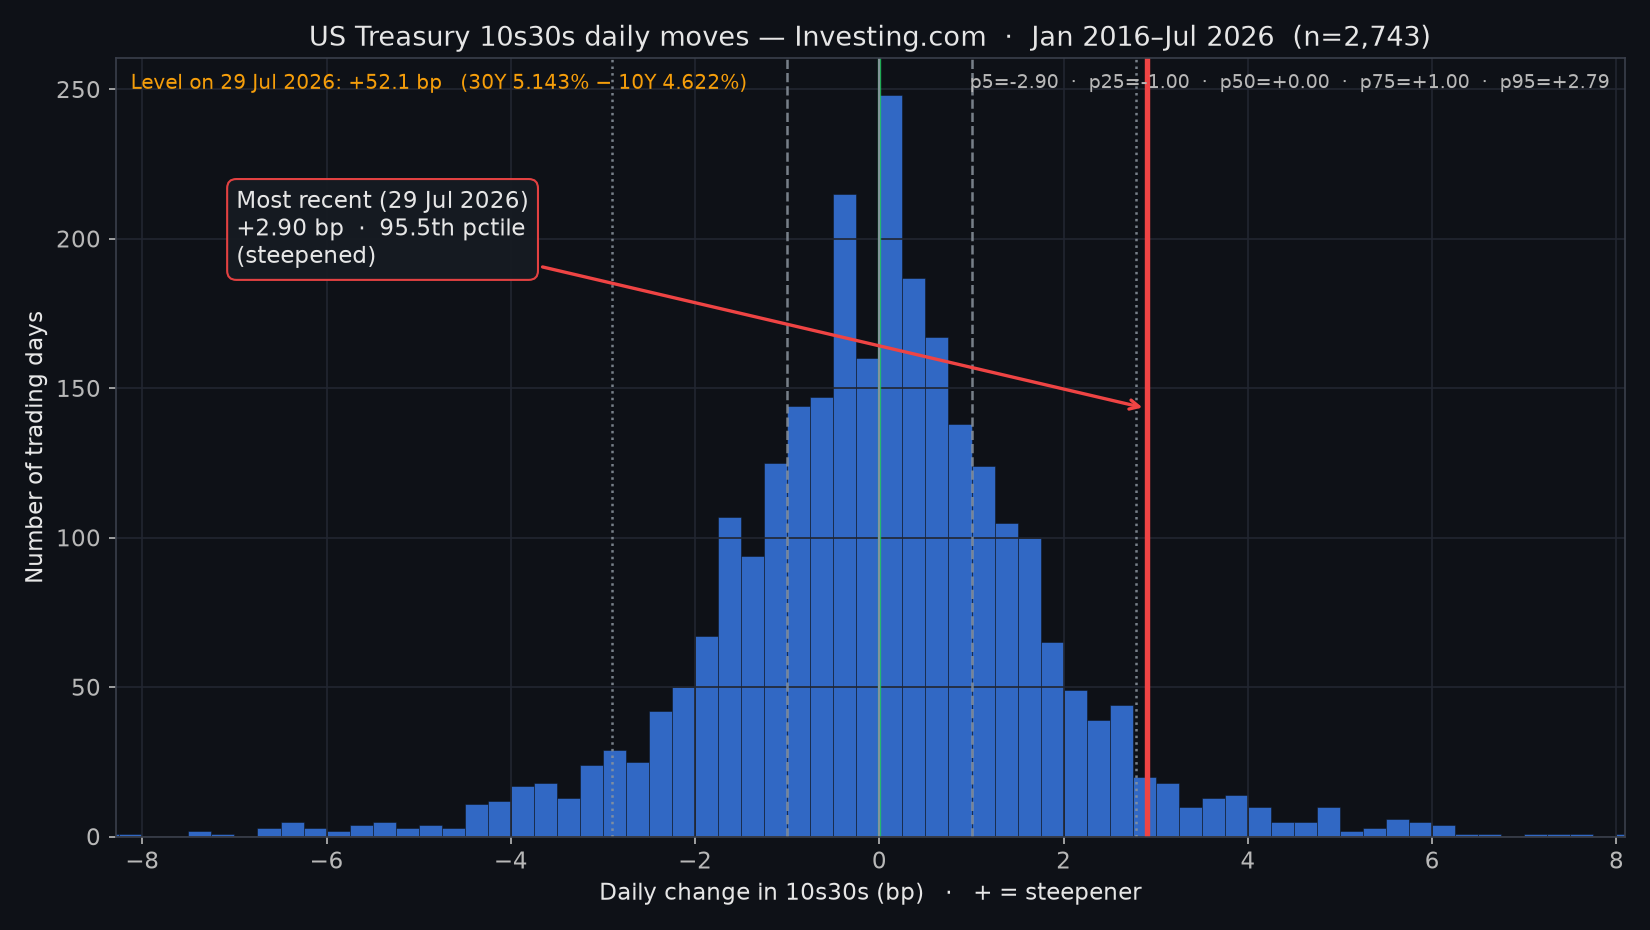
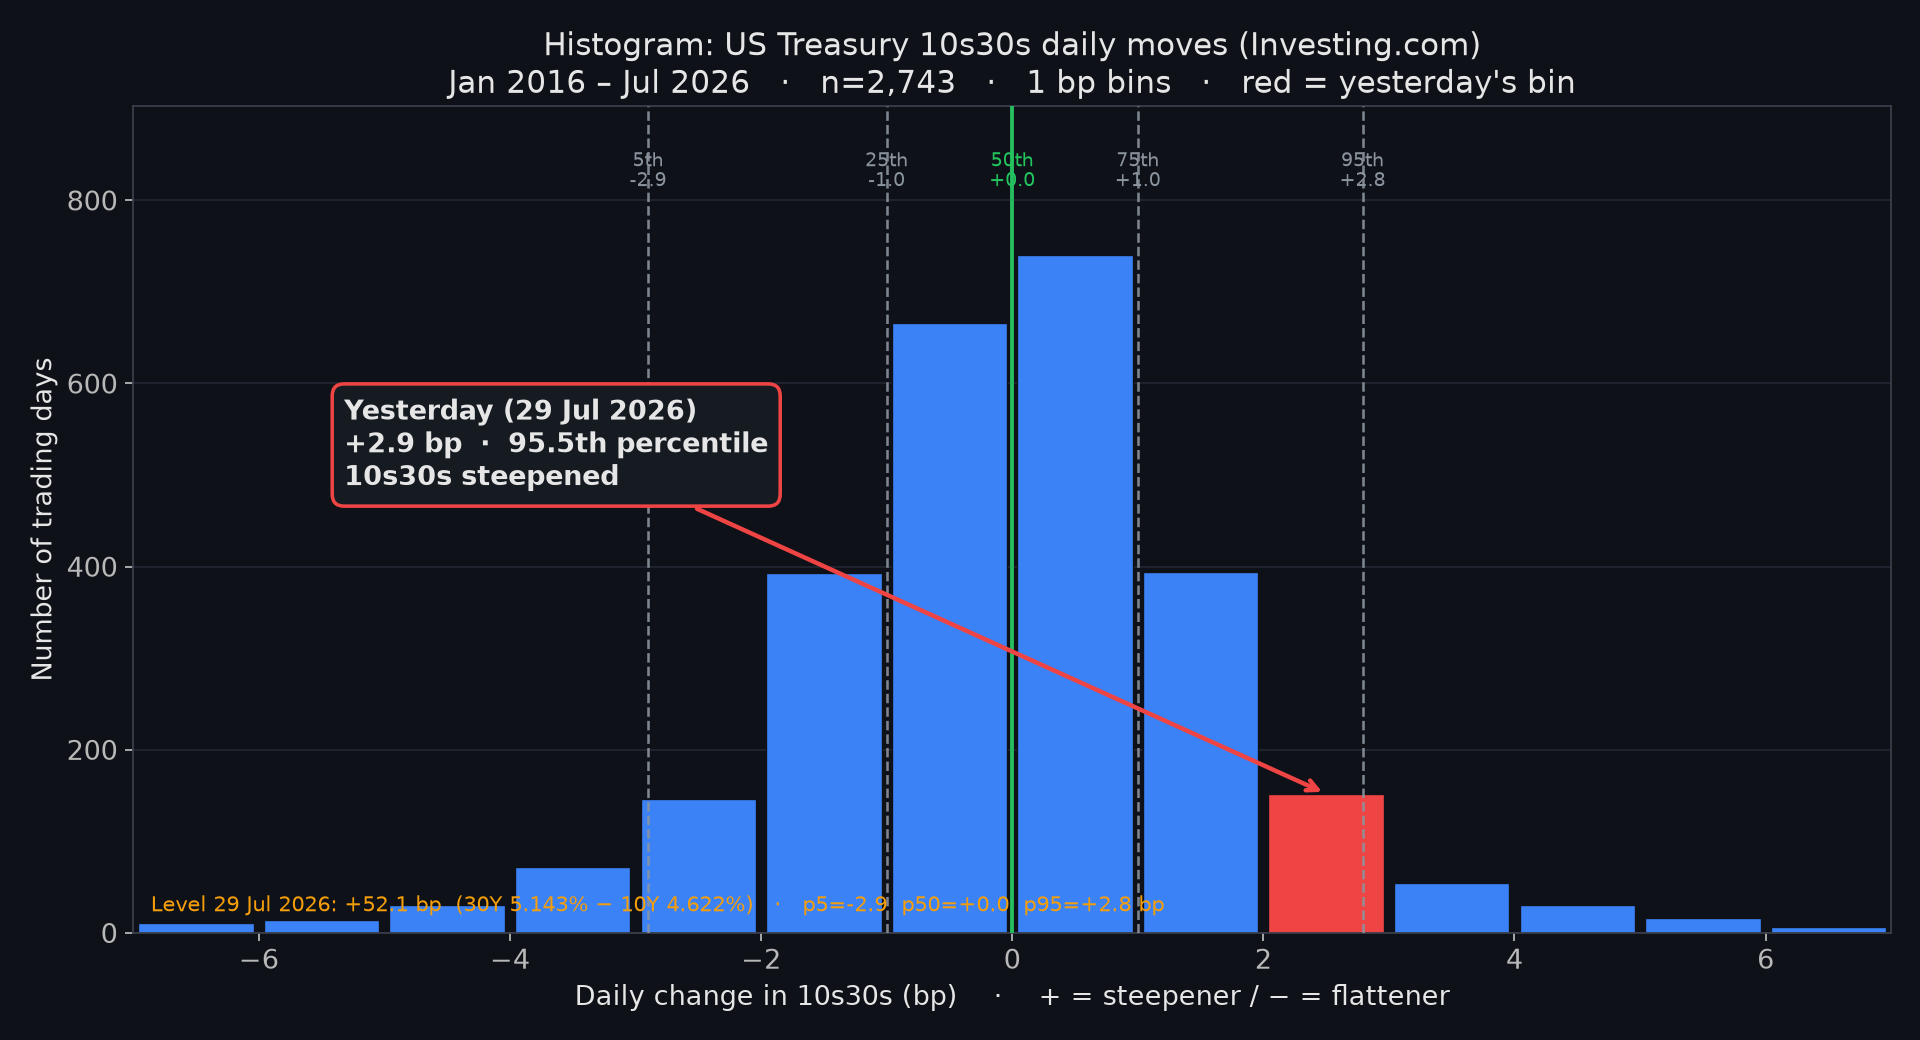
Make 10s30s chart a classic 1bp histogram
Replace fine-binned density-style plot and CDF with a clear 1 bp
histogram, highlight yesterday's bin in red, and label percentiles.

diff --git a/analyze_10s30s_moves.py b/analyze_10s30s_moves.py
@@ -185,7 +185,7 @@ def main() -> None:
 
     print(json.dumps(summary, indent=2))
 
-    # ---- Histogram ----
+    # ---- Histogram (primary deliverable) ----
     plt.rcParams.update(
         {
             "figure.facecolor": "#0e1117",
@@ -196,9 +196,10 @@ def main() -> None:
             "xtick.color": "#b8b8b8",
             "ytick.color": "#b8b8b8",
             "axes.edgecolor": "#3a3f4b",
-            "font.size": 11,
-            "axes.titlesize": 13,
+            "font.size": 12,
+            "axes.titlesize": 14,
             "axes.grid": True,
+            "axes.grid.axis": "y",
             "grid.color": "#222631",
             "grid.linewidth": 0.8,
         }
@@ -211,94 +212,108 @@ def main() -> None:
         "#8b949e",
     )
 
-    fig, ax = plt.subplots(figsize=(11, 6.2))
-    # Clip display window to ~p0.5–p99.5 for readability; annotate if last move outside
-    lo = np.percentile(moves, 0.5)
-    hi = np.percentile(moves, 99.5)
-    pad = 0.15 * (hi - lo)
-    xmin, xmax = lo - pad, hi + pad
-    # ensure last move is visible
-    xmin = min(xmin, last_move - pad)
-    xmax = max(xmax, last_move + pad)
+    fig, ax = plt.subplots(figsize=(12, 6.5))
 
-    bin_w = 0.25  # 0.25 bp bins
-    bins = np.arange(np.floor(xmin / bin_w) * bin_w, np.ceil(xmax / bin_w) * bin_w + bin_w, bin_w)
-    ax.hist(moves, bins=bins, color=BLUE, alpha=0.78, edgecolor="#0e1117", linewidth=0.3)
+    # Classic 1bp histogram bins; clip display to ~p1–p99 so bars read clearly
+    bin_w = 1.0
+    lo = np.floor(np.percentile(moves, 1) / bin_w) * bin_w - bin_w
+    hi = np.ceil(np.percentile(moves, 99) / bin_w) * bin_w + bin_w
+    # keep yesterday visible even if in the far tail
+    lo = min(lo, np.floor(last_move / bin_w) * bin_w - bin_w)
+    hi = max(hi, np.ceil(last_move / bin_w) * bin_w + bin_w)
+    bins = np.arange(lo, hi + bin_w, bin_w)
 
-    # percentile guides
-    for key, color, ls in [
-        ("p5", MUTED, ":"),
-        ("p25", MUTED, "--"),
-        ("p50", GREEN, "-"),
-        ("p75", MUTED, "--"),
-        ("p95", MUTED, ":"),
-    ]:
-        ax.axvline(qs[key], color=color, lw=1.2 if key != "p50" else 1.6, ls=ls, alpha=0.85)
+    counts, edges = np.histogram(moves, bins=bins)
+    centers = 0.5 * (edges[:-1] + edges[1:])
+    # highlight the bin containing yesterday's move
+    last_bin = int(np.digitize([last_move], edges, right=False)[0] - 1)
+    last_bin = max(0, min(last_bin, len(counts) - 1))
+    colors = [RED if i == last_bin else BLUE for i in range(len(counts))]
 
-    ax.axvline(last_move, color=RED, lw=2.6, label=None)
-    ax.axvline(0, color=MUTED, lw=0.9)
-
-    # annotate last move
-    ylim = ax.get_ylim()
-    direction = "steepened" if last_move > 0 else ("flattened" if last_move < 0 else "unchanged")
-    label = (
-        f"Most recent ({last_date:%d %b %Y})\n"
-        f"{last_move:+.2f} bp  ·  {pct:.1f}th pctile\n"
-        f"({direction})"
+    ax.bar(
+        centers,
+        counts,
+        width=bin_w * 0.92,
+        color=colors,
+        edgecolor="#0e1117",
+        linewidth=0.6,
+        align="center",
+        zorder=2,
     )
-    # place annotation on the side with more space
-    if last_move >= 0:
-        xytext = (xmin + 0.08 * (xmax - xmin), ylim[1] * 0.78)
-        ha = "left"
-    else:
-        xytext = (xmax - 0.08 * (xmax - xmin), ylim[1] * 0.78)
-        ha = "right"
+
+    # percentile guides + labels along the top of the plot
+    ylim_top_guide = max(counts) * 1.18
+    for key, lab in [
+        ("p5", "5th"),
+        ("p25", "25th"),
+        ("p50", "50th"),
+        ("p75", "75th"),
+        ("p95", "95th"),
+    ]:
+        x = qs[key]
+        if x < lo or x > hi:
+            continue
+        is_med = key == "p50"
+        ax.axvline(
+            x,
+            color=GREEN if is_med else MUTED,
+            lw=1.8 if is_med else 1.15,
+            ls="-" if is_med else "--",
+            alpha=0.9,
+            zorder=3,
+        )
+        ax.text(
+            x,
+            ylim_top_guide * 0.98,
+            f"{lab}\n{x:+.1f}",
+            ha="center",
+            va="top",
+            fontsize=8.5,
+            color=GREEN if is_med else MUTED,
+            linespacing=1.05,
+        )
+
+    ax.axvline(0, color="#6b7280", lw=1.0, zorder=1)
+
+    # annotate yesterday
+    direction = "steepened" if last_move > 0 else ("flattened" if last_move < 0 else "unchanged")
+    y_ann = max(counts) * 0.72
+    x_text = lo + 0.12 * (hi - lo) if last_move >= 0 else hi - 0.12 * (hi - lo)
+    ha = "left" if last_move >= 0 else "right"
     ax.annotate(
-        label,
-        xy=(last_move, ylim[1] * 0.55),
-        xytext=xytext,
+        f"Yesterday ({last_date:%d %b %Y})\n"
+        f"{last_move:+.1f} bp  ·  {pct:.1f}th percentile\n"
+        f"10s30s {direction}",
+        xy=(centers[last_bin], counts[last_bin]),
+        xytext=(x_text, y_ann),
         color="#e6e6e6",
-        fontsize=11,
+        fontsize=12,
         ha=ha,
         va="center",
-        bbox=dict(boxstyle="round,pad=0.4", facecolor="#161b22", edgecolor=RED, alpha=0.95),
-        arrowprops=dict(arrowstyle="->", color=RED, lw=1.6),
+        fontweight="bold",
+        bbox=dict(boxstyle="round,pad=0.45", facecolor="#161b22", edgecolor=RED, lw=1.6),
+        arrowprops=dict(arrowstyle="->", color=RED, lw=2.0),
+        zorder=5,
     )
 
-    # percentile legend strip
-    legend_bits = [
-        f"p5={qs['p5']:+.2f}",
-        f"p25={qs['p25']:+.2f}",
-        f"p50={qs['p50']:+.2f}",
-        f"p75={qs['p75']:+.2f}",
-        f"p95={qs['p95']:+.2f}",
-    ]
-    ax.text(
-        0.99,
-        0.98,
-        "  ·  ".join(legend_bits),
-        transform=ax.transAxes,
-        ha="right",
-        va="top",
-        fontsize=9,
-        color="#b8b8b8",
-    )
-
-    ax.set_xlim(xmin, xmax)
-    ax.set_xlabel("Daily change in 10s30s (bp)   ·   + = steepener")
+    ax.set_xlim(lo, hi)
+    ax.set_ylim(0, max(counts) * 1.22)
+    ax.set_xlabel("Daily change in 10s30s (bp)    ·    + = steepener / − = flattener")
     ax.set_ylabel("Number of trading days")
     ax.set_title(
-        f"US Treasury 10s30s daily moves — Investing.com  ·  {START:%b %Y}–{last_date:%b %Y}"
-        f"  (n={len(moves):,})"
+        f"Histogram: US Treasury 10s30s daily moves (Investing.com)\n"
+        f"{START:%b %Y} – {last_date:%b %Y}   ·   n={len(moves):,}   ·   "
+        f"1 bp bins   ·   red = yesterday's bin"
     )
     ax.text(
         0.01,
-        0.98,
-        f"Level on {last_date:%d %b %Y}: {df.loc[last_date, 's10s30']:+.1f} bp"
-        f"   (30Y {df.loc[last_date, 'y30']:.3f}% − 10Y {df.loc[last_date, 'y10']:.3f}%)",
+        0.02,
+        f"Level {last_date:%d %b %Y}: {df.loc[last_date, 's10s30']:+.1f} bp"
+        f"  (30Y {df.loc[last_date, 'y30']:.3f}% − 10Y {df.loc[last_date, 'y10']:.3f}%)"
+        f"   ·   p5={qs['p5']:+.1f}  p50={qs['p50']:+.1f}  p95={qs['p95']:+.1f} bp",
         transform=ax.transAxes,
         ha="left",
-        va="top",
+        va="bottom",
         fontsize=9.5,
         color=AMBER,
     )
@@ -307,47 +322,16 @@ def main() -> None:
     name = "us_10s30s_daily_move_histogram_since_2016.png"
     for folder in (OUT_ART, OUT_CHARTS):
         path = os.path.join(folder, name)
-        fig.savefig(path, dpi=150)
+        fig.savefig(path, dpi=160)
         print("wrote", path)
     plt.close(fig)
 
-    # also a small companion: cumulative distribution with last move marked
-    fig, ax = plt.subplots(figsize=(10, 5.5))
-    xs = np.sort(moves.values)
-    cdf = np.arange(1, len(xs) + 1) / len(xs)
-    ax.plot(xs, cdf * 100, color=BLUE, lw=1.8)
-    ax.axvline(last_move, color=RED, lw=2.2)
-    ax.axhline(pct, color=RED, lw=1.0, ls="--", alpha=0.8)
-    ax.scatter([last_move], [pct], color=RED, s=55, zorder=5)
-    ax.annotate(
-        f"{last_date:%d %b %Y}: {last_move:+.2f} bp\n{pct:.1f}th percentile",
-        xy=(last_move, pct),
-        xytext=(
-            (qs["p75"] + 0.5) if last_move < qs["p75"] else (qs["p25"] - 0.5),
-            min(92, pct + 18),
-        ),
-        color="#e6e6e6",
-        fontsize=11,
-        ha="left" if last_move < qs["p75"] else "right",
-        bbox=dict(boxstyle="round,pad=0.35", facecolor="#161b22", edgecolor=RED),
-        arrowprops=dict(arrowstyle="->", color=RED, lw=1.4),
-    )
-    for p, xv in [(5, qs["p5"]), (50, qs["p50"]), (95, qs["p95"])]:
-        ax.axvline(xv, color=MUTED, lw=0.9, ls=":", alpha=0.7)
-        ax.text(xv, 3, f"p{p}", color=MUTED, ha="center", fontsize=8)
-    ax.set_xlabel("Daily change in 10s30s (bp)")
-    ax.set_ylabel("Cumulative percentile")
-    ax.set_title(
-        f"Empirical CDF of US 10s30s daily moves (Investing.com, {START.year}–{last_date.year})"
-    )
-    ax.set_ylim(0, 100)
-    fig.tight_layout()
-    name2 = "us_10s30s_daily_move_cdf_since_2016.png"
+    # remove prior CDF artifact if present (histogram is the deliverable)
     for folder in (OUT_ART, OUT_CHARTS):
-        path = os.path.join(folder, name2)
-        fig.savefig(path, dpi=150)
-        print("wrote", path)
-    plt.close(fig)
+        cdf_path = os.path.join(folder, "us_10s30s_daily_move_cdf_since_2016.png")
+        if os.path.exists(cdf_path):
+            os.remove(cdf_path)
+            print("removed", cdf_path)
 
 
 if __name__ == "__main__":
